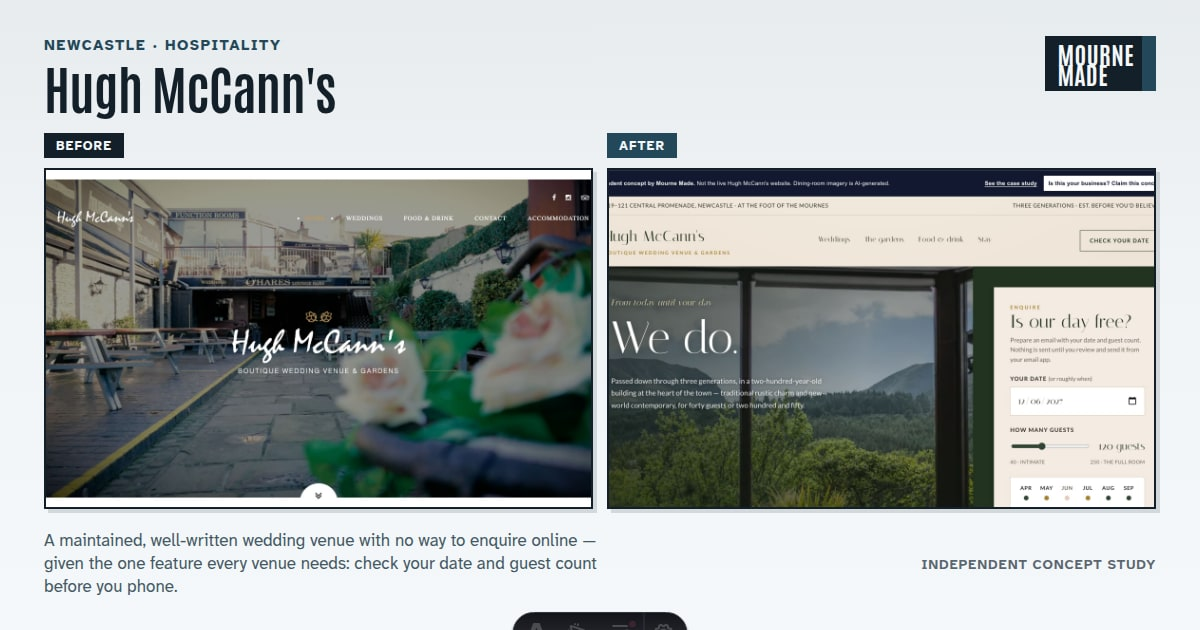
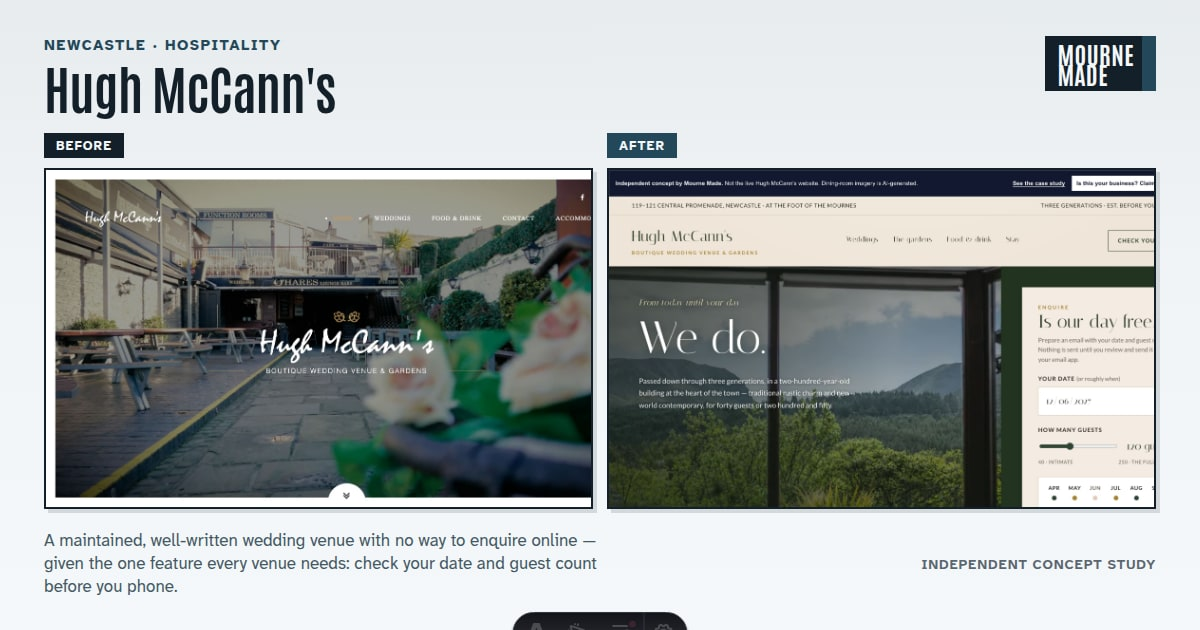
Add OG images to concept pages and anchor share-card crops left
ConceptLayout now emits full Open Graph metadata, reusing the per-slug
share card when a transformation candidate exists. Comparison panels in
OG cards use object-position: top left so hero content survives crop.
Regenerated all share cards; added kelly-mcevoy-brown.

diff --git a/src/site/data/og-images.ts b/src/site/data/og-images.ts
@@ -12,3 +12,7 @@ export const ogImages = {
 export function transformationOgImage(slug: string): string {
   return `/media/og/${slug}.jpg`;
 }
+
+export function conceptOgImage(slug: string, hasCandidate: boolean): string {
+  return hasCandidate ? transformationOgImage(slug) : ogImages.studio;
+}

diff --git a/src/site/styles/og-card.css b/src/site/styles/og-card.css
@@ -285,7 +285,7 @@
   height: 100%;
   min-height: 0;
   object-fit: cover;
-  object-position: top center;
+  object-position: top left;
   border: 2px solid #132029;
   box-shadow: 4px 4px 0 rgb(19 32 41 / 0.14);
 }
